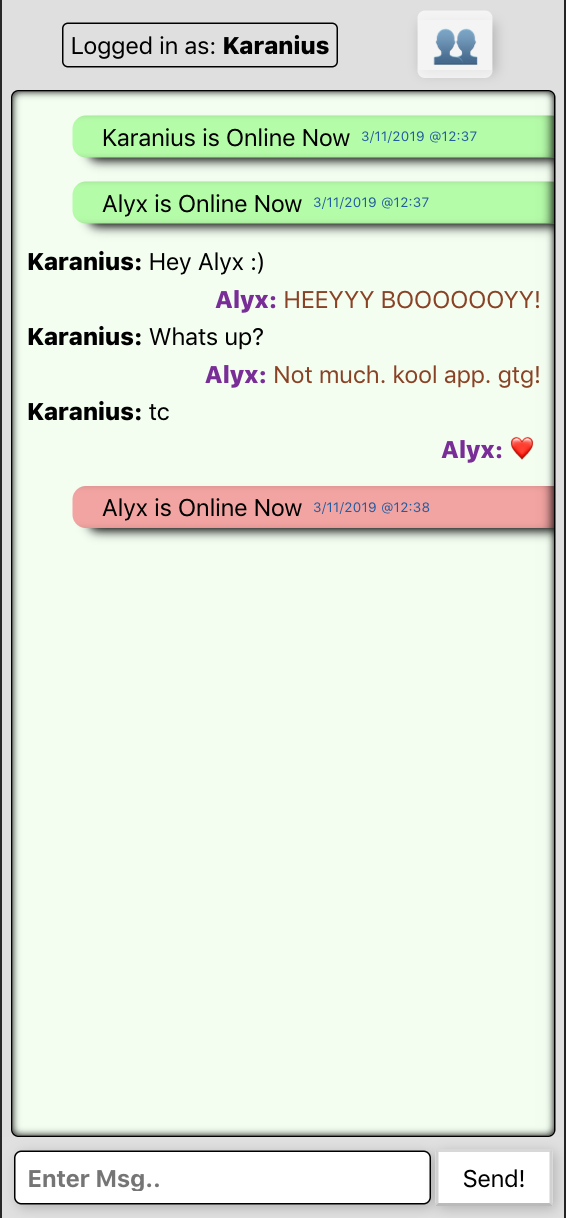
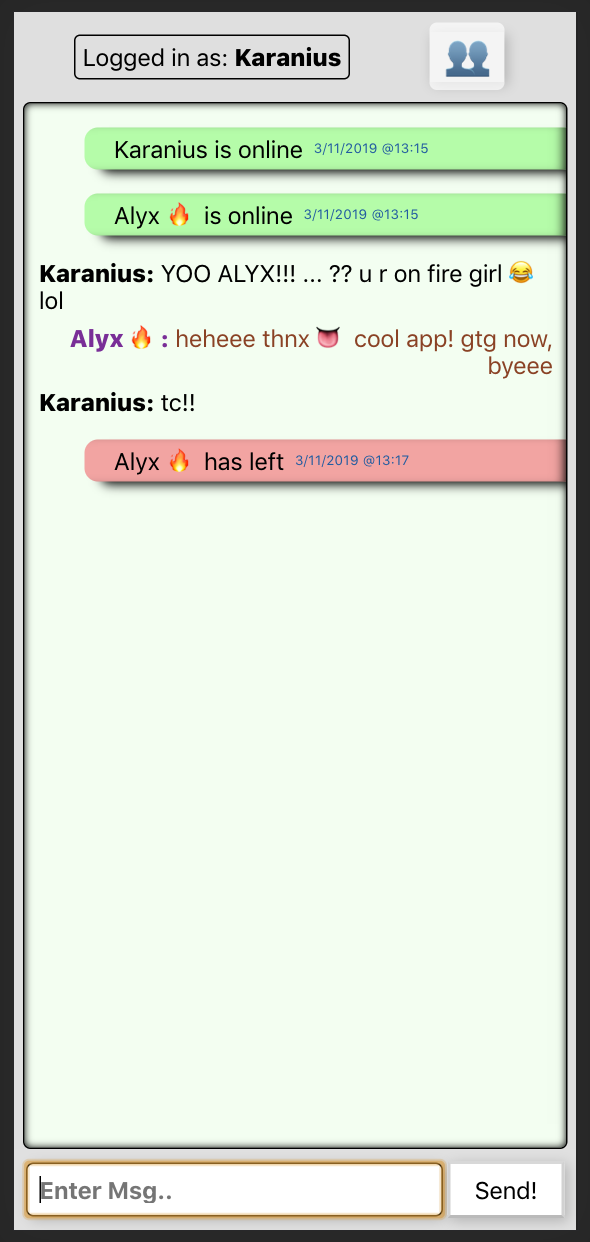
fixing some bugs

Changed region(s): [[0.0, 0.0, 1.0, 1.0]]

diff --git a/src/components/Display/Display.js b/src/components/Display/Display.js
@@ -30,7 +30,7 @@ class Display extends React.Component {
         if (userOnline !== null) {
             const x = new Date()
             const p =document.createElement('p');
-            p.innerHTML = `${userOnline.user} is Online Now <span id='timeStamp'> ${x.getDay()}/${x.getMonth()}/${x.getFullYear()} @${x.getHours()}:${x.getMinutes()}</span>`;
+            p.innerHTML = `${userOnline.user} is online <span id='timeStamp'> ${x.getDay()}/${x.getMonth()}/${x.getFullYear()} @${x.getHours()}:${x.getMinutes()}</span>`;
             p.id = 'welcome'
             document.getElementById('comment').appendChild(p);
             setToNull('userOnline')
@@ -39,7 +39,7 @@ class Display extends React.Component {
         if (userLeft !== null) {
             const x = new Date()
             const p =document.createElement('p');
-            p.innerHTML = `${userLeft} is Online Now <span id='timeStamp'> ${x.getDay()}/${x.getMonth()}/${x.getFullYear()} @${x.getHours()}:${x.getMinutes()}</span>`;
+            p.innerHTML = `${userLeft} has left <span id='timeStamp'> ${x.getDay()}/${x.getMonth()}/${x.getFullYear()} @${x.getHours()}:${x.getMinutes()}</span>`;
             p.id='bye'
             document.getElementById('comment').appendChild(p);
             setToNull('userLeft')
